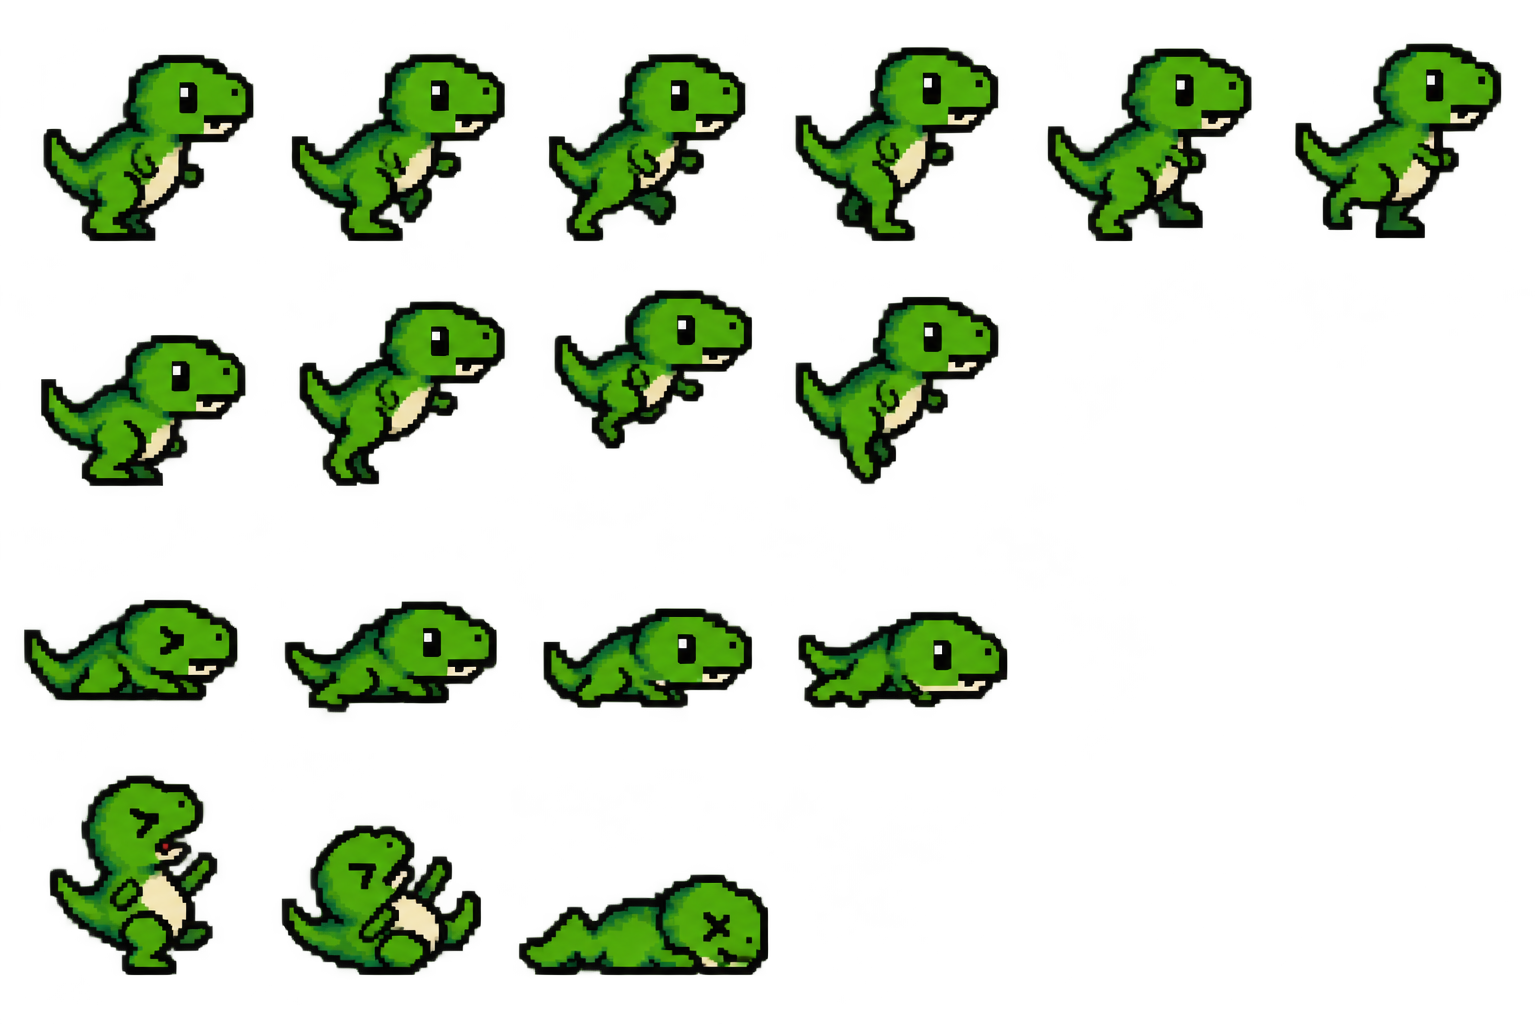
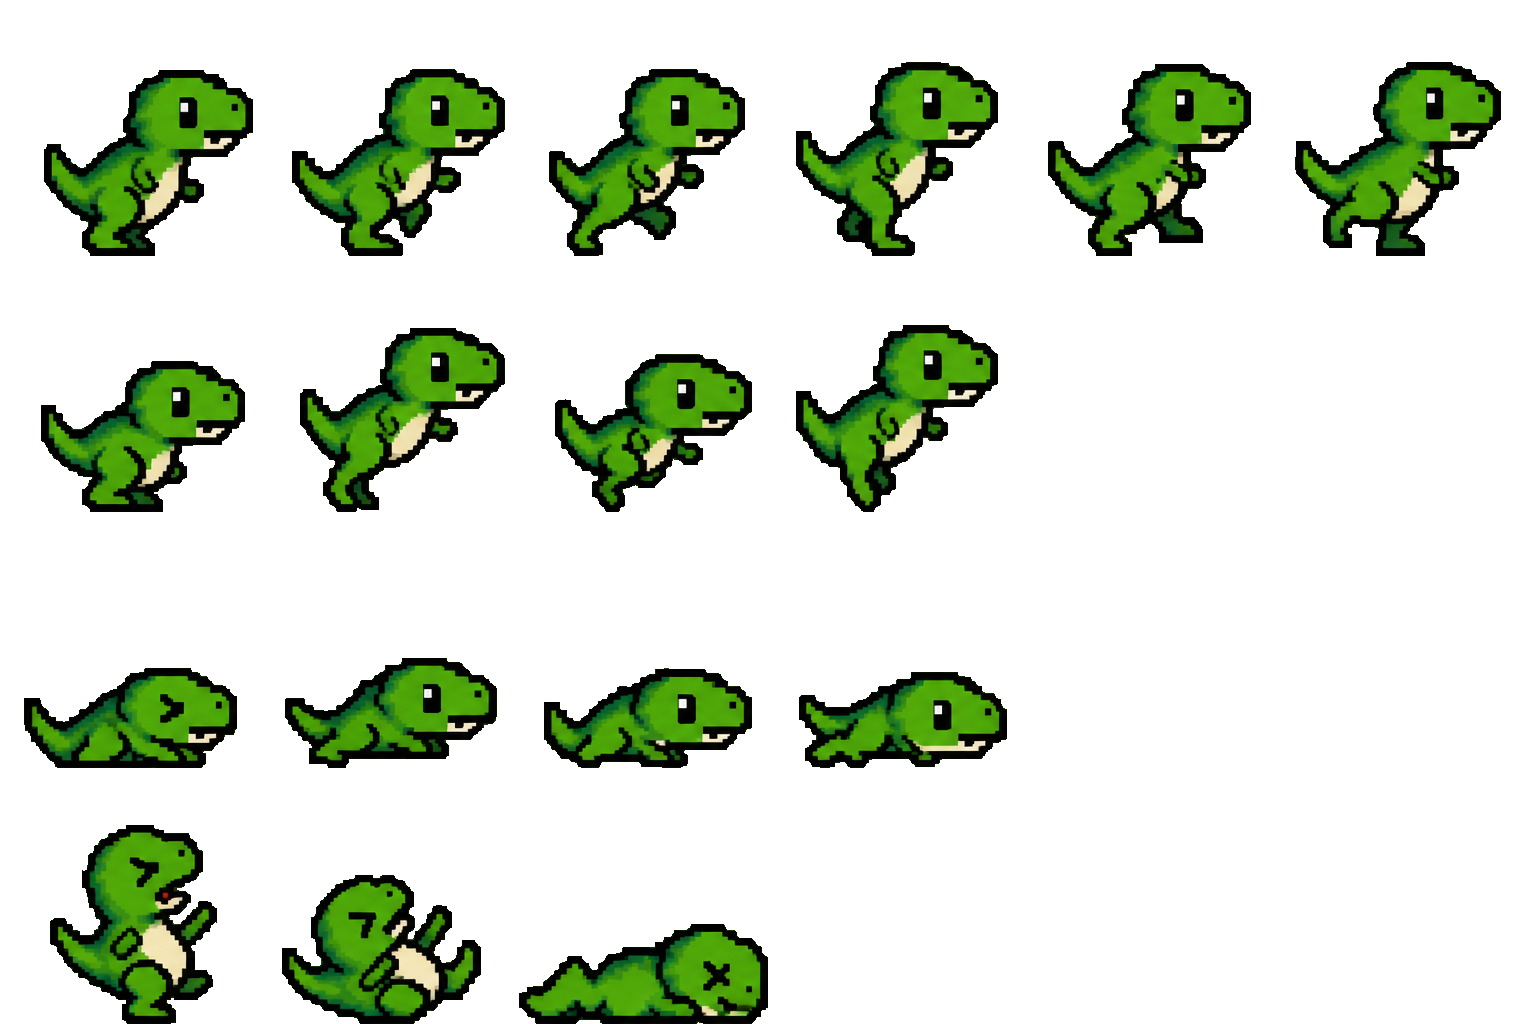
Apply review changes and fix sprite feet alignment

diff --git a/script.js b/script.js
@@ -1,9 +1,23 @@
-const canvas = document.getElementById("dinoGame")
-const ctx = canvas.getContext("2d")
+const canvas = document.getElementById("dino-game")
+const context = canvas.getContext("2d")
 
 const dinoSprite = new Image()
 dinoSprite.src = "assets/images/dino.png"
 
-dinoSprite.addEventListener("load", () => {
-    ctx.drawImage(dinoSprite, 0, 0, 256, 256, 0, 280, 128, 128)
-})
+const SPRITE_FRAME_SIZE = 256
+const DINO_SCALE = 0.5
+const DINO_SIZE = SPRITE_FRAME_SIZE * DINO_SCALE
+const DINO_DRAW_X = 0
+const GROUND = canvas.height
+let frameColumn = 0
+let frameRow = 0
+let dinoDrawY = GROUND - DINO_SIZE
+
+function drawDino(){
+    const spriteX = frameColumn * SPRITE_FRAME_SIZE
+    const spriteY = frameRow * SPRITE_FRAME_SIZE
+
+    context.drawImage(dinoSprite, spriteX, spriteY, SPRITE_FRAME_SIZE, SPRITE_FRAME_SIZE, DINO_DRAW_X, dinoDrawY, DINO_SIZE, DINO_SIZE)
+}
+
+dinoSprite.addEventListener("load", drawDino)

diff --git a/index.html b/index.html
@@ -8,6 +8,6 @@
         <script src="script.js" defer></script>
     </head>
     <body>
-        <canvas id="dinoGame" width="1000" height="400"></canvas>
+        <canvas id="dino-game" width="1000" height="400"></canvas>
     </body>
 </html>

diff --git a/styles.css b/styles.css
@@ -1,3 +1,3 @@
-#dinoGame{
+#dino-game{
     border: 2px solid black;
 }
